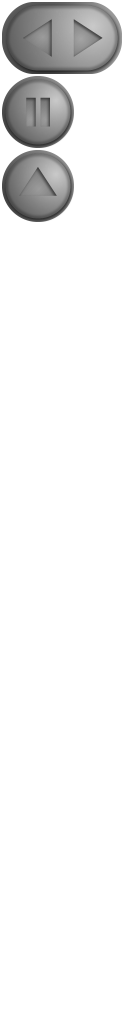
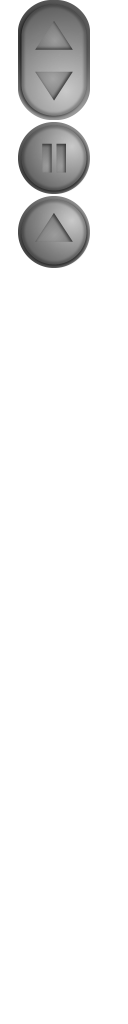
Added top colour band.
Current colour now shows up on the top of the screen to ease any
confusion and give the player more feedback. I've also condensed the
left and right bands into one band sprite, and simply rotate it, to
save memory.

Changed region(s): [[0.0, 0.0, 0.9688, 0.2812]]

diff --git a/Projectfiles/HUDLayer.mm b/Projectfiles/HUDLayer.mm
@@ -40,14 +40,18 @@
         [self addChild:menu];
 
         // Add sliding bands
-        leftband = [CCSprite spriteWithSpriteFrameName:@"leftband.png"];
-        leftband.position = CGPointMake(0, 0);
-        leftband.anchorPoint = CGPointMake(0, 0);
+        topband = [CCSprite spriteWithSpriteFrameName:@"band.png"];
+        topband.position = CGPointMake(topband.contentSize.height/2, screenSize.height-topband.contentSize.width/2);
+        topband.rotation = -90;
+        [self addChild:topband];       
+        
+        leftband = [CCSprite spriteWithSpriteFrameName:@"band.png"];
+        leftband.position = CGPointMake(leftband.contentSize.width/2, leftband.contentSize.height/2);
+        leftband.rotation = 180;
         [self addChild:leftband];
 
-        rightband = [CCSprite spriteWithSpriteFrameName:@"rightband.png"];
-        rightband.position = CGPointMake(screenSize.width - rightband.contentSize.width, 0);
-        rightband.anchorPoint = CGPointMake(0, 0);
+        rightband = [CCSprite spriteWithSpriteFrameName:@"band.png"];
+        rightband.position = CGPointMake(screenSize.width - rightband.contentSize.width/2, rightband.contentSize.height/2);
         [self addChild:rightband];
         
         // Set sliding transition time
@@ -147,16 +151,19 @@
 
     if ([colour isEqualToString:@"red"])
     {
+        [topband setColor:(ccc3(255,0,0))];
         [leftband setColor:(ccc3(0,0,255))];
         [rightband setColor:(ccc3(255,255,0))];
     }
     else if ([colour isEqualToString:@"yellow"])
     {
+        [topband setColor:(ccc3(255,255,0))];
         [leftband setColor:(ccc3(255,0,0))];
         [rightband setColor:(ccc3(0,0,255))];        
     }
     else
     {
+        [topband setColor:(ccc3(0,0,255))];
         [leftband setColor:(ccc3(255,255,0))];
         [rightband setColor:(ccc3(255,0,0))];
     }

diff --git a/Projectfiles/HUDLayer.h b/Projectfiles/HUDLayer.h
@@ -17,6 +17,7 @@
     CCSprite *jump;
     CCSprite *menu;
     
+    CCSprite *topband;
     CCSprite *leftband;
     CCSprite *rightband;
     
